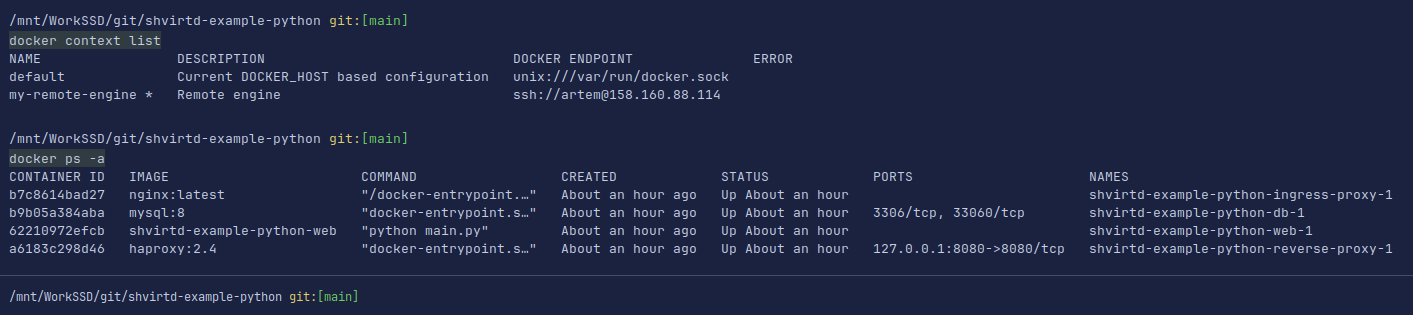
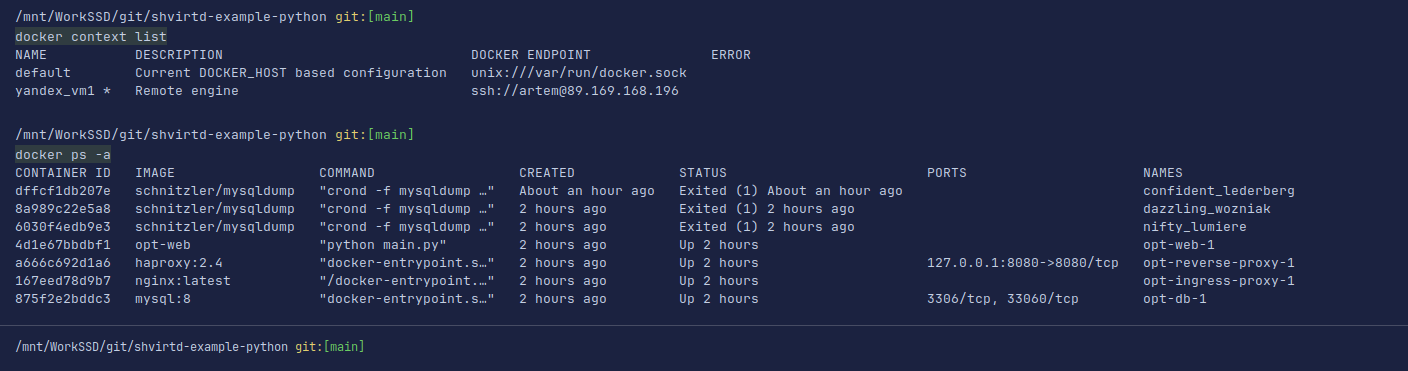
on check

diff --git a/shvirtd/05-virt-04-docker-in-practice/README.md b/shvirtd/05-virt-04-docker-in-practice/README.md
@@ -32,16 +32,103 @@ remote: Total 53 (delta 15), reused 11 (delta 8), pack-reused 28
 Определение изменений: 100% (16/16), готово.
 ```
 
+## Задача 2
+[Отчет о скнировании](vulnerabilities.csv)
+
+## Задача 3
+![SQL запрос](./png/mysql.png)
+
+## Задача 4
+
+[bash скрипт](https://github.com/artemtsybakov/shvirtd-example-python/blob/main/bash.sh)
+[Fork репозиторий](https://github.com/artemtsybakov/shvirtd-example-python/tree/main)
+![SQl запрос 2](./png/yacloud_mysql.png)
+```shell
+sudo docker context create \
+    --docker host=ssh:artem@89.169.168.196 \
+    --description="Remote engine" \
+    yandex_vm1
+```
+[docker context](./png/docker_context.png)
+
+## Задача 5
+Пока не получается сделать. 
+Добавил сеть в которой запущен проект с БД. Спрятал пароли в файле env.list . Запускаю.
+```text
+sudo docker run -it \
+    --network=opt_backend \
+    --env-file /opt/env.list \
+    -v `pwd`/backup:/backup \
+    --link="opt-db-1:alias" \
+    schnitzler/mysqldump \
+    mysqldump --opt -h alias -u ${MYSQL_USER} -p${MYSQL_PASSWORD} "--result-file=/backup/dumps.sql" ${MYSQL_DATABASE}
+```
+Получаю ошибку.
+```text
+crond: unrecognized option: opt
+BusyBox v1.36.1 (2023-06-02 00:42:02 UTC) multi-call binary.
+
+Usage: crond [-fbS] [-l N] [-d N] [-L LOGFILE] [-c DIR]
+
+        -f      Foreground
+        -b      Background (default)
+        -S      Log to syslog (default)
+        -l N    Set log level. Most verbose 0, default 8
+        -d N    Set log level, log to stderr
+        -L FILE Log to FILE
+        -c DIR  Cron dir. Default:/var/spool/cron/crontabs
+```
+Если запускаю без файлика и с пустыми переменными окружения, то получаю ошибку подключения.
+```text
+sudo docker run \
+    --network=opt_backend \
+    --rm --entrypoint "" \
+    -v `pwd`/backup:/backup \
+    --link="opt-db-1:alias" \
+    schnitzler/mysqldump \
+    mysqldump --opt -h alias -u"root" -p"YtReWq4321" "--result-file=/backup/dumps.sql" virtd
+```
+```text
+mysqldump: Got error: 1045: "Plugin caching_sha2_password could not be loaded: Error loading shared library /usr/lib/mariadb/plugin/caching_sha2_password.so: No such file or directory" when trying to connect
+```
 ## Задача 6.1
+```shell
 sudo docker pull hashicorp/terraform:latest
+```
+[terraform pull](./png/terraform%20pull%20image.png)
+```shell
 sudo docker run -ti --rm -v /var/run/docker.sock:/var/run/docker.sock wagoodman/dive hashicorp/terraform
-sudo docker image  save -o  /tmp/image.tar.gz hashicorp/terraform
-cd /tmp/
-sudo tar xf /tmp/image.tar.gz
-cd blobs/sha256
-sudo tar xf 4dcbcdcfdb7ea3f99552522f11af8c3e79c9c6423d85e40ddc627ca379af9c3e
-ls -la bin/terraform 
+```
+[run dive](./png/run_dive.png)
 
+```shell
+sudo docker image  save -o  /tmp/image.tar.gz hashicorp/terraform
+```
+[dive_image](./png/dive_image.png)
+```shell
+cd /tmp/
+```
+```shell
+sudo tar xf /tmp/image.tar.gz
+```
+```shell
+cd blobs/sha256
+```
+```shell
+sudo tar xf 4dcbcdcfdb7ea3f99552522f11af8c3e79c9c6423d85e40ddc627ca379af9c3e
+```
+```shell
+ls -la bin/terraform
+```
+[terraform file dive](./png/terraform_file_dive.png) 
 
 ## Задача 6.1
+Создадим контейнер.
+```shell
+docker run hashicorp/terraform -d
+```
+Подключимся и скачаем файл.
+```shell
 sudo docker cp 461faec92273:/bin/terraform .
+```
+[docker cp](./png/docker_cp.png)
